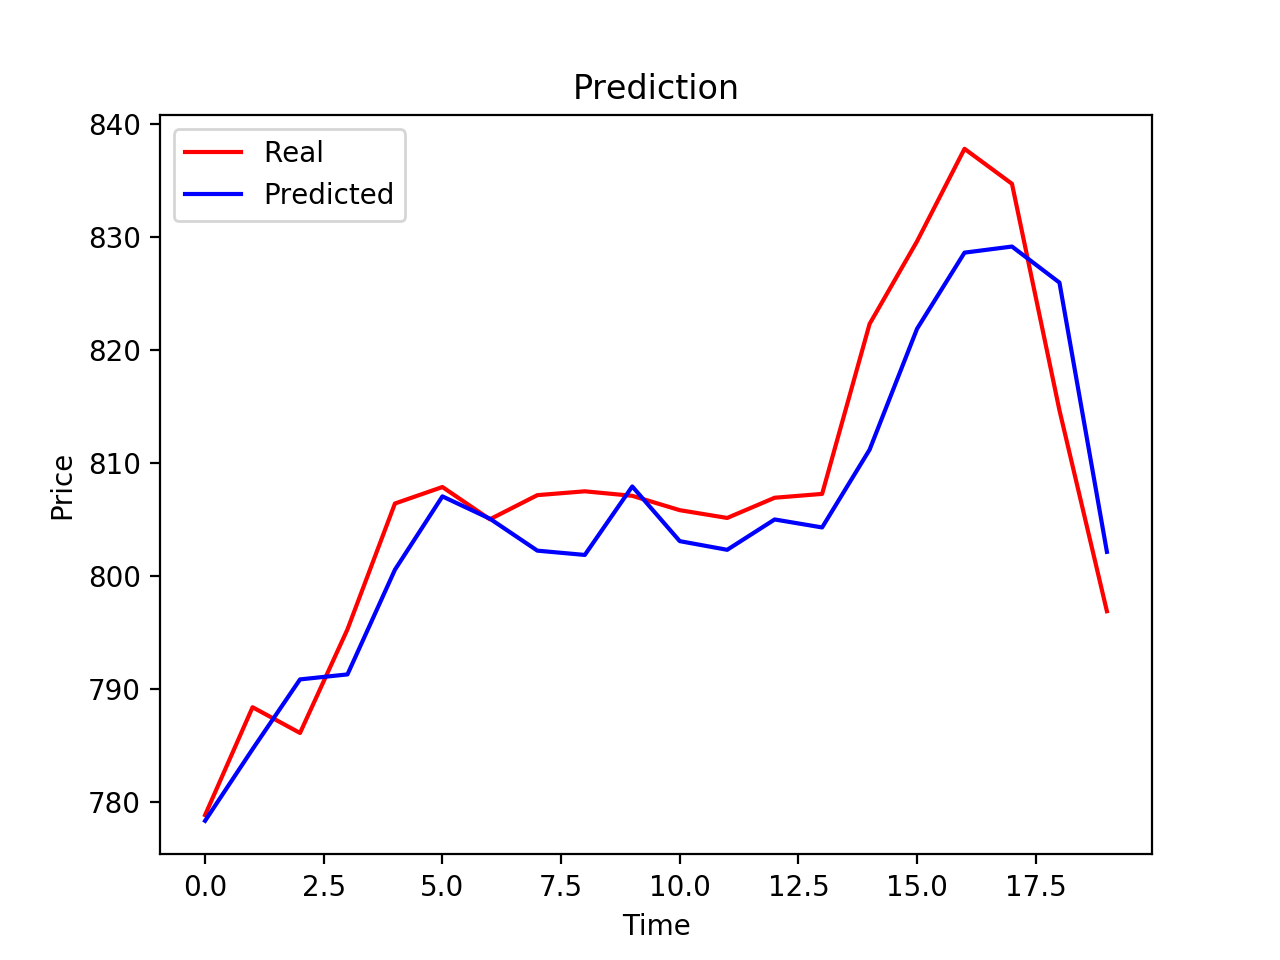
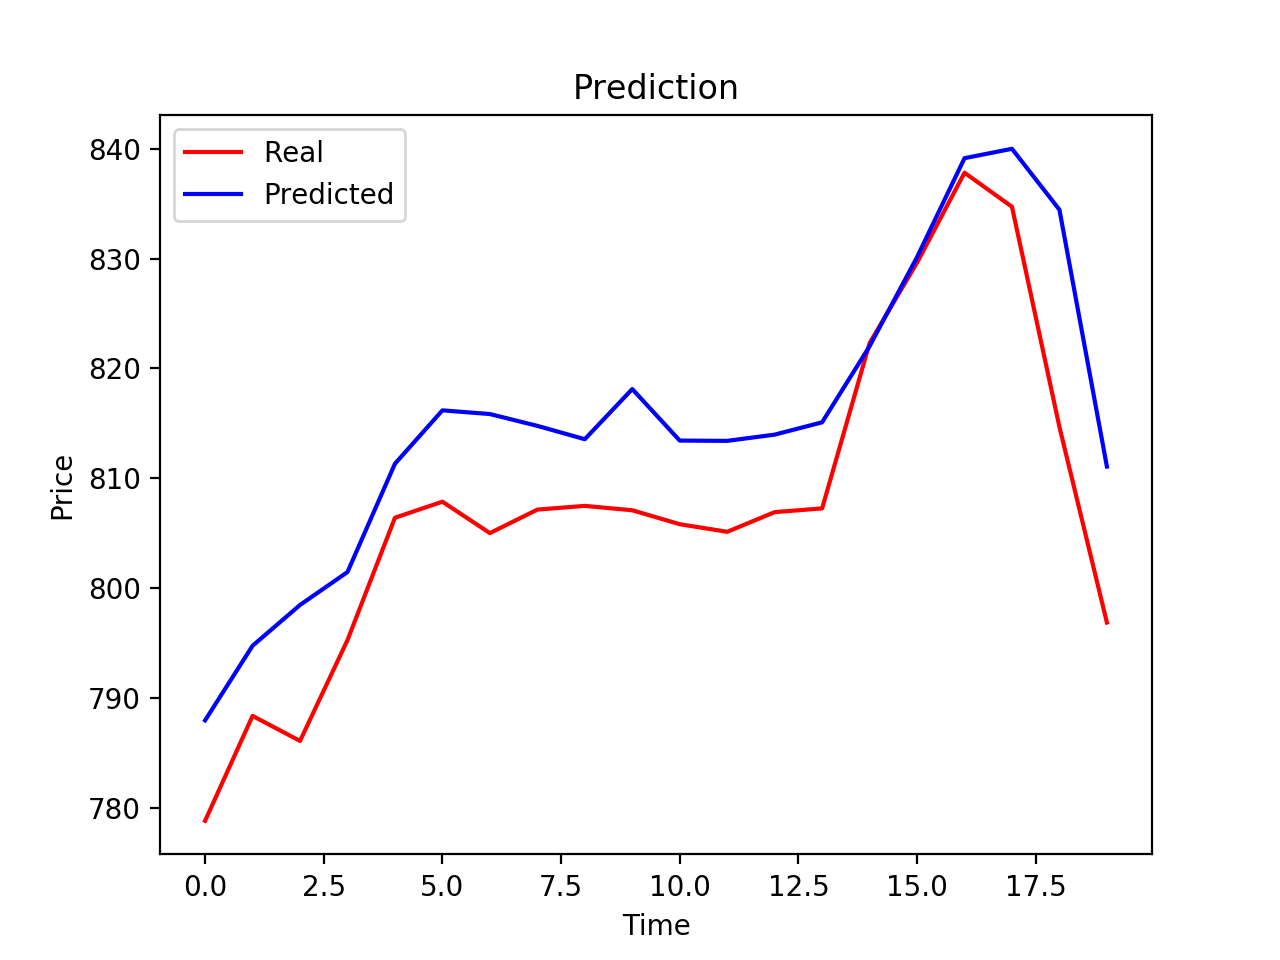
adding volumes of stock parameter to predict

diff --git a/lstm_stock.py b/lstm_stock.py
@@ -10,11 +10,12 @@ import matplotlib.pyplot as plt
 import pandas as pd
 
 window=25
-noOfMetrics = 3
+noOfMetrics = 5
 #Open, High, Low
 # We are trying to predict Open price, on the basis of all 3
-datasetTrain = pd.read_csv('Google_Stock_Price_Train.csv')
-trainingSet = datasetTrain.iloc[:,1:4].values
+datasetTrain = pd.read_csv('Google_Stock_Price_Train.csv', thousands=',')
+#print (datasetTrain.iloc[:5:6].values)
+trainingSet = datasetTrain.iloc[:,1:6].values
 #print(trainingSet)
 
 # Feature Scaling
@@ -75,8 +76,8 @@ regressor.compile(optimizer = 'rmsprop', loss = 'mean_squared_error')
 regressor.fit(X_train, y_train, epochs = 25, batch_size = 32)
 
 # Getting the real stock price for February 1st 2012 - January 31st 2017
-datasetTest = pd.read_csv('Google_Stock_Price_Test.csv')
-testSet = datasetTest.iloc[:,1:4].values
+datasetTest = pd.read_csv('Google_Stock_Price_Test.csv', thousands=',')
+testSet = datasetTest.iloc[:,1:6].values
 realStockPrice = np.concatenate((trainingSet[0:1258], testSet), axis = 0)
 
 # Getting the predicted stock price of 2017
